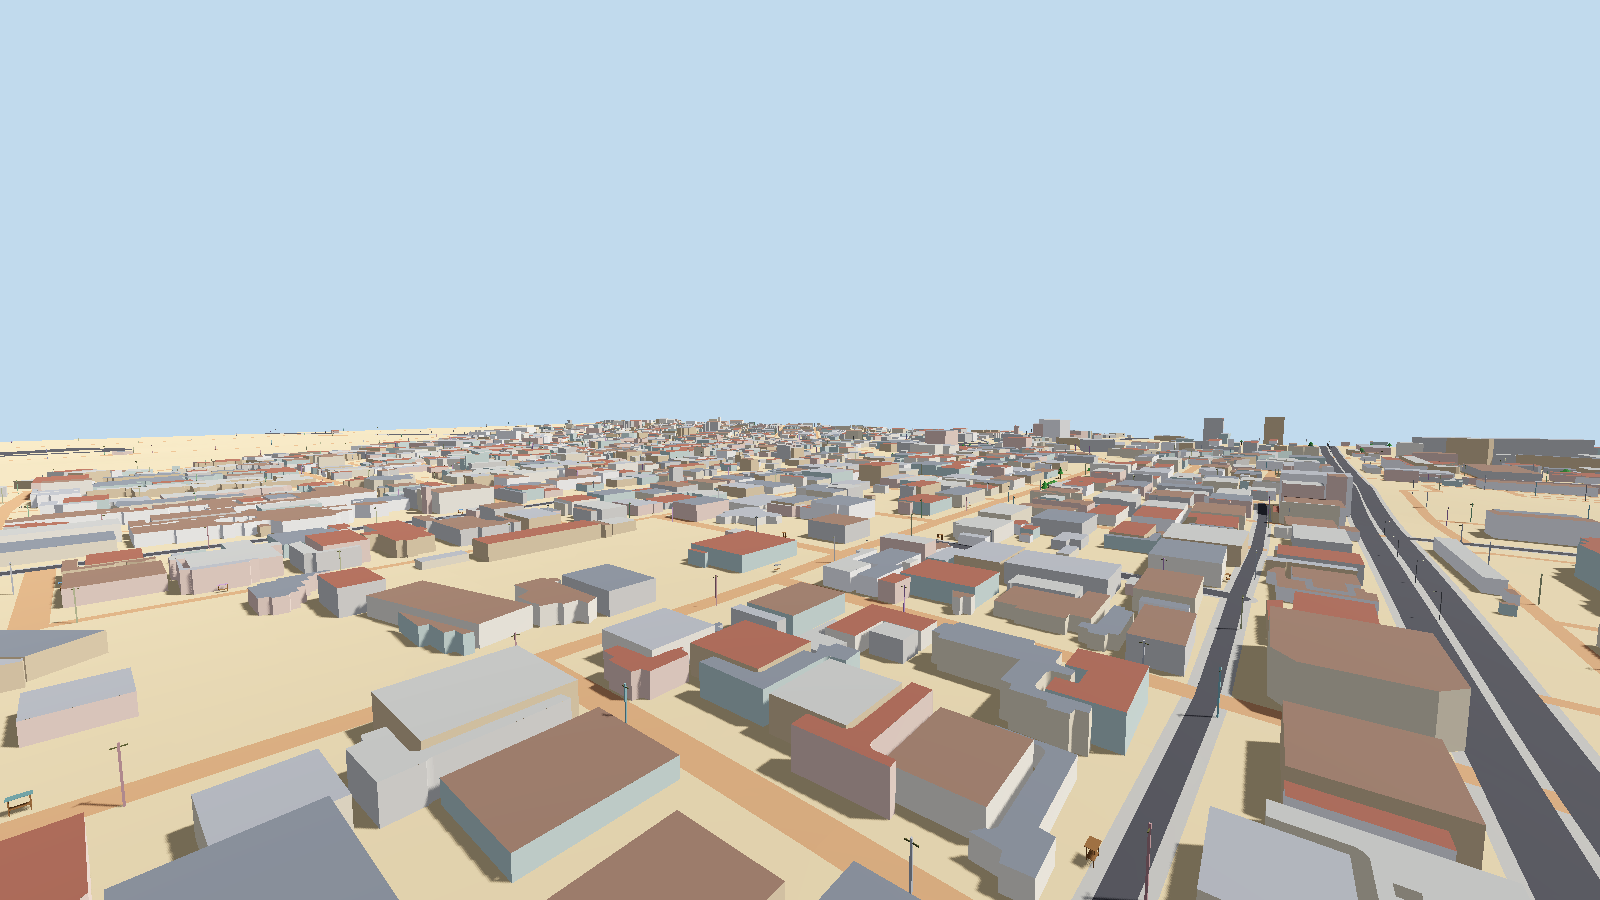
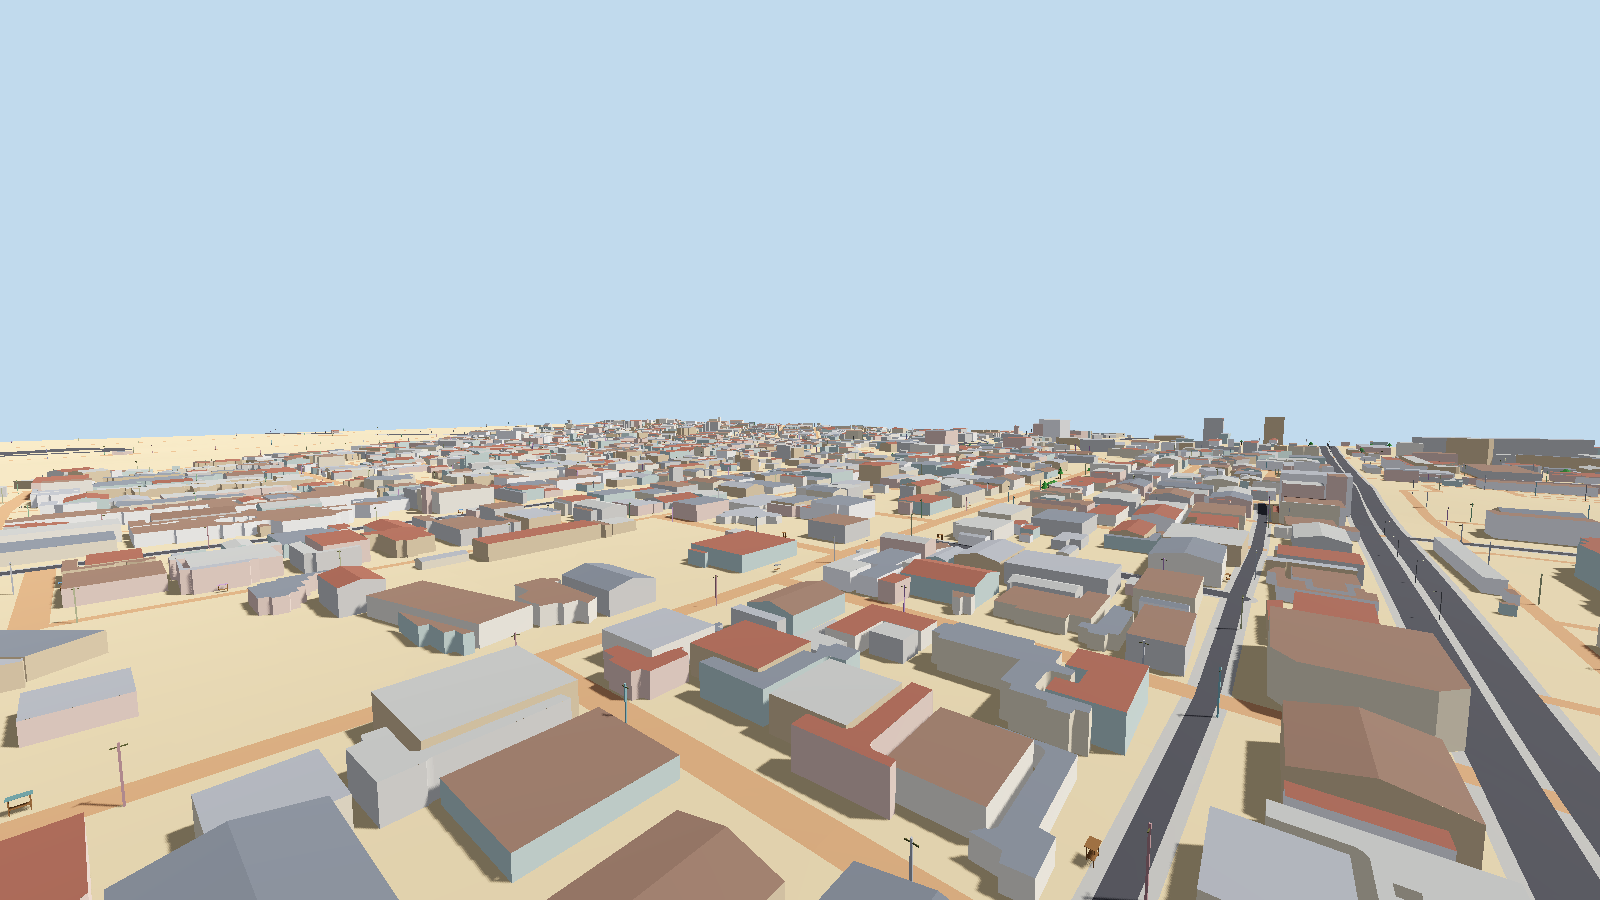
ayigba 0.6 : toits a deux pentes (choix de style) sur les petits batiments rectangulaires
- MeshBuilder.add_gable_prism : le toit epouse exactement l'emprise, murs et pignons suivent le toit
- 60 % des batiments eligibles (graine), propriete toit = deux_pentes, ligne genere au journal, reglage [toits]
- 1936 toits a Cadjehoun, 3821 a Ouidah ; budget par zone respecte
- 225 tests automatiques ; Godot sans perte ni trou, bots pietons et voiture sans defaut

diff --git a/tests/test_toits.py b/tests/test_toits.py
@@ -1,0 +1,127 @@
+"""Toits à deux pentes (MeshBuilder.add_gable_prism) sur des polygones synthétiques, sans réseau."""
+from __future__ import annotations
+
+import math
+
+import numpy as np
+import pytest
+from shapely import affinity
+from shapely.geometry import Polygon, box
+
+from ayigba.mesh import MeshBuilder
+
+Z0, Z1 = 2.0, 5.0
+MUR, TOIT = (0.8, 0.8, 0.8), (0.6, 0.2, 0.1)
+
+
+def _prisme(poly, **kw):
+    mb = MeshBuilder("test")
+    r = mb.add_gable_prism(poly, Z0, Z1, MUR, TOIT, **kw)
+    return r, mb.triangles
+
+
+def _normales(tris):
+    n = np.cross(tris[:, 1] - tris[:, 0], tris[:, 2] - tris[:, 0])
+    return n, np.linalg.norm(n, axis=1)
+
+
+def _toit_et_murs(tris):
+    n, ln = _normales(tris)
+    nz = n[:, 2] / ln
+    return tris[nz > 0.3], tris[np.abs(nz) < 1e-6]
+
+
+def rect(w=10.0, h=6.0):
+    return box(-w / 2, -h / 2, w / 2, h / 2)
+
+
+def test_rectangle_altitudes_et_emprise():
+    p = rect()
+    r, t = _prisme(p)
+    assert r is not None and r > 0
+    assert r == pytest.approx(math.tan(math.radians(14.0)) * 3.0, abs=1e-6)
+    assert len(t) > 0
+    assert t[:, :, 2].max() == pytest.approx(Z1 + r, abs=1e-6)
+    assert t[:, :, 2].min() == pytest.approx(Z0, abs=1e-6)
+    _, ln = _normales(t)
+    assert (ln > 1e-9).all(), "triangle dégénéré"
+    emprise = p.buffer(1e-6)
+    assert all(emprise.contains(__import__("shapely").geometry.Point(x, y)) for x, y in t[:, :, :2].reshape(-1, 2))
+
+
+def test_carre_refuse():
+    r, t = _prisme(rect(6.0, 6.0))
+    assert r is None and len(t) == 0
+
+
+def test_formes_refusees():
+    avec_trou = Polygon(rect(20, 10).exterior.coords, [rect(4, 3).exterior.coords])
+    forme_l = Polygon([(0, 0), (12, 0), (12, 4), (4, 4), (4, 12), (0, 12)])
+    minuscule = box(0, 0, 1.5, 2.5)
+    for p in (avec_trou, forme_l, minuscule):
+        r, t = _prisme(p)
+        assert r is None and len(t) == 0
+
+
+def test_rectangle_tourne():
+    p = affinity.rotate(rect(), 30, origin=(0, 0))
+    r, t = _prisme(p)
+    assert r is not None and r > 0
+    assert t[:, :, 2].max() == pytest.approx(Z1 + r, abs=1e-6)
+    from shapely.geometry import Point
+    emprise = p.buffer(1e-6)
+    assert all(emprise.contains(Point(x, y)) for x, y in t[:, :, :2].reshape(-1, 2))
+
+
+@pytest.mark.parametrize("angle", [0, 30])
+def test_toit_etanche(angle):
+    p = affinity.rotate(rect(), angle, origin=(0, 0))
+    _, t = _prisme(p)
+    toit, _ = _toit_et_murs(t)
+    a = toit[:, :, :2]
+    aire = 0.5 * np.abs((a[:, 1, 0] - a[:, 0, 0]) * (a[:, 2, 1] - a[:, 0, 1]) - (a[:, 2, 0] - a[:, 0, 0]) * (a[:, 1, 1] - a[:, 0, 1]))
+    assert aire.sum() == pytest.approx(p.area, abs=1e-6)
+
+
+@pytest.mark.parametrize("angle", [0, 30])
+def test_murs_couvrent_chaque_arete(angle):
+    p = affinity.rotate(rect(), angle, origin=(0, 0))
+    _, t = _prisme(p)
+    _, murs = _toit_et_murs(t)
+    pts = np.asarray(p.exterior.coords)[:, :2]
+    for a, b in zip(pts[:-1], pts[1:]):
+        ab = b - a
+        L2 = float(ab @ ab)
+        trouve = False
+        for tri in murs:
+            bas = tri[np.isclose(tri[:, 2], Z0, atol=1e-9)][:, :2]
+            if len(bas) < 2:
+                continue
+            ok = True
+            for q in bas:
+                s = float((q - a) @ ab) / L2
+                dist = np.linalg.norm(a + s * ab - q)
+                if dist > 1e-6 or s < -1e-6 or s > 1 + 1e-6:
+                    ok = False
+            if ok:
+                trouve = True
+                break
+        assert trouve, f"arête sans mur : {a} -> {b}"
+
+
+def test_orientation_des_normales():
+    p = rect()
+    _, t = _prisme(p)
+    n, ln = _normales(t)
+    nz = n[:, 2] / ln
+    toit = nz > 0.3
+    assert toit.any() and (nz[toit] > 0).all()
+    centre = np.array([0.0, 0.0])
+    nb_murs = 0
+    for tri, nn in zip(t[np.abs(nz) < 1e-6], n[np.abs(nz) < 1e-6]):
+        nb_murs += 1
+        c = tri[:, :2].mean(axis=0)
+        assert float(nn[:2] @ (c - centre)) > 0, "mur tourné vers l'intérieur"
+    assert nb_murs > 0
+    # aucun triangle ne regarde vers le bas (pas de plancher)
+    assert (nz > -1e-6).all()

diff --git a/src/ayigba/mesh.py b/src/ayigba/mesh.py
@@ -84,6 +84,68 @@ class MeshBuilder:
         self.add_walls(poly, z0, z1, wall_color)
         self.add_flat(poly, z1, top_color)
 
+    def add_gable_prism(self, poly: Polygon, z0: float, z1: float, wall_color, roof_color, pitch_deg: float = 14.0,
+                        min_rectangularity: float = 0.90, min_aspect: float = 1.2, max_rise: float = 1.8) -> float | None:
+        """Bâtiment à toit à deux pentes. Retourne la hauteur du faîte au-dessus de z1, ou None si la forme ne s'y prête pas
+        (rien n'est alors ajouté : l'appelant fait un toit plat).
+
+        Le toit épouse exactement l'emprise (aucun débord sur la rue) : le polygone est coupé par la ligne de faîte, chaque
+        moitié est triangulée à plat puis relevée selon la hauteur, et les murs suivent le toit (pignons compris).
+        Forme acceptée : sans trou, presque rectangulaire, plus longue que large (le faîte suit la longueur).
+        """
+        if poly.is_empty or len(poly.interiors) or poly.area < 4.0:
+            return None
+        rect = poly.minimum_rotated_rectangle
+        if rect.is_empty or rect.geom_type != "Polygon" or poly.area / rect.area < min_rectangularity:
+            return None
+        c = np.asarray(rect.exterior.coords)[:4]
+        e1, e2 = c[1] - c[0], c[2] - c[1]
+        l1, l2 = float(np.hypot(*e1)), float(np.hypot(*e2))
+        long_, short = max(l1, l2), min(l1, l2)
+        if short < 2.5 or long_ / short < min_aspect:
+            return None
+        u = (e1 if l1 >= l2 else e2) / long_          # direction du faîte
+        n = np.array([-u[1], u[0]])                    # normale au faîte
+        center = np.asarray(rect.centroid.coords)[0]
+        half = short / 2.0
+        rise = min(np.tan(np.radians(pitch_deg)) * half, max_rise)
+
+        def perp(p):
+            return (np.asarray(p)[..., :2] - center) @ n
+
+        def top_at(p):
+            return z1 + rise * np.clip(1.0 - np.abs(perp(p)) / half, 0.0, 1.0)
+
+        from shapely.geometry import LineString
+        from shapely.ops import split
+        ridge = LineString([tuple(center - u * (long_ + 5.0)), tuple(center + u * (long_ + 5.0))])
+        halves = [g for g in split(poly, ridge).geoms if g.geom_type == "Polygon" and g.area > 1e-6]
+        if len(halves) != 2:
+            return None
+        # murs : chaque arête du contour est coupée là où elle traverse le faîte, le haut suit la hauteur du toit
+        pts = np.asarray(orient(poly, 1.0).exterior.coords)[:, :2]
+        quads = []
+        for a, b in zip(pts[:-1], pts[1:]):
+            if np.linalg.norm(b - a) < 1e-6:
+                continue
+            pa, pb = float(perp(a)), float(perp(b))
+            segs = [(a, b)]
+            if pa * pb < 0:
+                m = a + (b - a) * (pa / (pa - pb))
+                segs = [(a, m), (m, b)]
+            for p, q in segs:
+                p0, q0 = np.array([p[0], p[1], z0]), np.array([q[0], q[1], z0])
+                p1, q1 = np.array([p[0], p[1], float(top_at(p))]), np.array([q[0], q[1], float(top_at(q))])
+                quads.append(np.stack([p0, q0, q1]))
+                quads.append(np.stack([p0, q1, p1]))
+        self._add(np.stack(quads), wall_color)
+        for h in halves:
+            t2 = triangulate(h)
+            if len(t2):
+                z = top_at(t2.reshape(-1, 2)).reshape(len(t2), 3, 1)
+                self._add(np.concatenate([t2, z], axis=2), roof_color)
+        return float(rise)
+
     @property
     def triangles(self) -> np.ndarray:
         return np.concatenate(self._tris) if self._tris else np.zeros((0, 3, 3))

diff --git a/src/ayigba/stages/generate.py b/src/ayigba/stages/generate.py
@@ -152,6 +152,8 @@ def run(ctx) -> dict:
     mesure = batiments25d.Hauteurs(bat25) if bat25 is not None else None
     to_data = vers_donnees(frame, bat25["epsg"]) if bat25 is not None else None
     measured = 0
+    pitched = 0
+    pitched_share = float(ctx.config.option("toits", "part_deux_pentes", 0.6)) if bool(ctx.config.option("toits", "actif", True)) else 0.0
     bati = MeshBuilder("batiments")
     estimated = 0
     final_buildings = []
@@ -190,10 +192,23 @@ def run(ctx) -> dict:
             final_buildings.append((geom, {**props, "hauteur": height, "hauteur_source": source_h, "base": round(low - 0.3, 2), "sommet": round(top, 2)}))
             continue
         top = high + height
+        # toit à deux pentes : choix de style (les données ne disent pas la forme des toits), seulement pour les petits bâtiments
+        # presque rectangulaires ; tirage lié à la graine, donc reproductible
+        gable = pitched_share > 0.0 and height <= 9.0 and 25.0 <= geom.area <= 500.0 and rng_for(seed, props["id"] + "/toit").random() < pitched_share
+        ridge = None
         for part in _polygons(geom):
-            bati.add_prism(part, low - 0.3, top, wall, roof)
-        final_buildings.append((geom, {**props, "hauteur": height, "hauteur_source": source_h, "base": round(low - 0.3, 2), "sommet": round(top, 2)}))
-    finish(bati, True, "volumes des bâtiments, toits plats, posés sur le relief")
+            r = bati.add_gable_prism(part, low - 0.3, top, wall, roof) if gable else None
+            if r is None:
+                bati.add_prism(part, low - 0.3, top, wall, roof)
+            else:
+                ridge = r
+        if ridge is not None:
+            pitched += 1
+        final_buildings.append((geom, {**props, "hauteur": height, "hauteur_source": source_h, "base": round(low - 0.3, 2), "sommet": round(top, 2),
+                                       **({"toit": "deux_pentes", "faitage_m": round(ridge, 2)} if ridge is not None else {})}))
+    finish(bati, True, "volumes des bâtiments (toits plats ou à deux pentes), posés sur le relief")
+    if pitched:
+        ctx.journal.record("genere", "batiments", f"toit à deux pentes ajouté à {pitched} bâtiment(s) presque rectangulaires (choix de style tiré selon la graine, part {pitched_share:.0%}) : la forme réelle des toits n'est pas dans les données")
     write_features(out / "buildings.geojson", final_buildings)
     if measured:
         ctx.journal.record("info", "batiments", f"hauteur mesurée par Google Open Buildings 2.5D pour {measured} bâtiment(s) (médiane des pixels sous l'emprise)")
@@ -223,5 +238,5 @@ def run(ctx) -> dict:
     return {
         "triangles": sum(layer["triangles"] for layer in layers),
         "couches": {layer["nom"]: layer["triangles"] for layer in layers},
-        "batiments": len(buildings), "hauteurs_estimees": estimated, "hauteurs_mesurees_25d": measured, "decors": len(items), "altitudes_m": relief,
+        "batiments": len(buildings), "toits_deux_pentes": pitched, "hauteurs_estimees": estimated, "hauteurs_mesurees_25d": measured, "decors": len(items), "altitudes_m": relief,
     }

diff --git a/tests/test_pipeline_synthetique.py b/tests/test_pipeline_synthetique.py
@@ -256,3 +256,12 @@ def test_reprise_ne_refait_rien(tmp_path):
     lancer(d, echo=lambda m, *_: messages.append(str(m)))
     assert messages
     assert all("déjà fait" in m for m in messages)
+
+
+def test_toits_desactives_donne_zero_toit_a_deux_pentes(tmp_path):
+    dossier = ecrire_projet(tmp_path / "sans-toits", ville_de_base())
+    cfg = dossier / "config.toml"
+    cfg.write_text(cfg.read_text(encoding="utf-8") + "\n[toits]\nactif = false\n", encoding="utf-8")
+    resultats = lancer(dossier)
+    assert "toits_deux_pentes" in resultats["generation"]
+    assert resultats["generation"]["toits_deux_pentes"] == 0

diff --git a/docs/CHANTIER.md b/docs/CHANTIER.md
@@ -1,6 +1,6 @@
 # Chantier ayigba : plan et avancement
 
-Écrit pour : Olympe, et tout agent qui reprend le travail. Mis à jour le 17/11/2026 (version 0.5).
+Écrit pour : Olympe, et tout agent qui reprend le travail. Mis à jour le 17/11/2026 (version 0.6).
 
 Règles de travail : ne rien pousser sans demande d'Olympe ; pas de co-auteur dans les commits ; ne jamais écrire le nom d'une marque ou d'une œuvre protégée ; dire ce qui n'est pas vérifié. Organisation : l'agent principal fait les tâches difficiles (conception, géométrie, contrôles, moteur) ; les tâches bien délimitées (tests, modules simples à contrat écrit) sont déléguées à des sous-agents, puis relues.
 
@@ -28,7 +28,7 @@ Règles de travail : ne rien pousser sans demande d'Olympe ; pas de co-auteur da
 |---|---|---|---|
 | 1 | Squelette, configuration, journal, reprise | **fait** | |
 | 2 | Collecte et nettoyage | **fait : OpenStreetMap, relief Copernicus (plusieurs tuiles), Google Open Buildings 2.5D** | reste : Microsoft Building Footprints, images de rue |
-| 3 | Génération de base | **fait, version simple** | relief (Copernicus 30 m), sol conforme drapé sur le relief, routes, trottoirs à plat, bâtiments posés sur le relief, auvents, eau à son niveau propre, décors ; densité de zems et sens de circulation exportés comme données ; reste : relief plus fin que 30 m, toits en pente, bordures de trottoir surélevées, carrefours dessinés, passages piétons peints, façades |
+| 3 | Génération de base | **fait, version simple** | relief (Copernicus 30 m), sol conforme drapé sur le relief, routes, trottoirs à plat, bâtiments posés sur le relief, auvents, eau à son niveau propre, décors ; densité de zems et sens de circulation exportés comme données ; toits à deux pentes pour une partie des petits bâtiments rectangulaires (version 0.6) ; reste : relief plus fin que 30 m, bordures de trottoir surélevées, carrefours dessinés, passages piétons peints, façades |
 | 4 | Tests par bots, correction, rapport | **fait** | contrôles de géométrie, accessibilité exacte, bots dans Godot sur toutes les routes au gabarit piéton et au gabarit voiture (1,8 m de large), comparaison avant/après et retour en arrière ; reste : navmesh, bots hors des routes, vrai véhicule à roues |
 | 5 | Génération de secours | **fait, première version** | routes isolées reliées ou retirées, îlots vides remplis, cours fermées comblées ; tout est marqué `genere` |
 | 6 | Export Godot et vérification dans un vrai Godot | **fait** | adaptateur `adapters/godot/ayigba_carte.gd` (zones à la demande, collisions, niveaux de détail), vérifié par les bots |
@@ -79,7 +79,8 @@ Même entrée et même graine donnent les mêmes fichiers (test automatique). Au
 - **Contrôle des détections (`ayigba controler-detections`, `src/ayigba/controle.py`, ajouté le 17/11/2026).** L'outil mesure des INDICES DE SUSPICION, pas la vérité terrain : aucune vérité terrain n'est disponible, le score (somme de poids dans `controle.POIDS`) est un outil de tri et jamais une probabilité d'erreur. Les seuils de surface, d'allongement, de hauteur et de densité sont ceux demandés ; ceux de rectangularité (0,5) et de présence moyenne (0,55) et tous les poids sont des choix de l'auteur, réglés sur la distribution observée pour que l'indice discrimine, pas sur des erreurs réelles. Limites : les indices viennent des mêmes données 2.5D que la détection (un bâtiment « sûr » est cohérent avec ses propres données, pas confirmé par une source indépendante) ; l'étape secours retire déjà des détections ce qui touche l'eau et les chaussées, donc `proche_eau` et `zone_tres_dense` ne se déclenchent presque jamais (0 sur les deux projets) ; « proche » veut dire à 1 m ou moins. Résultats du 17/11/2026 : Cadjèhoun, 3 108 détections, 1 389 sans indice, 165 de score 4 ou plus ; Ouidah, 6 816 détections, 3 773 sans indice, 317 de score 4 ou plus. Les planches (échantillon stratifié, graine fixe) montrent que les suspects sont surtout de très petites taches coincées entre des bâtiments, de faible hauteur ; elles ne prouvent rien sur la précision réelle. Exclusion : `--exclure-score X` écrit une liste d'identifiants dans `[batiments25d] exclure` de `config.toml` seulement à la demande ; l'étape secours les retire à la génération suivante et journalise le nombre exclu (`logs/decisions.jsonl`). Les identifiants `g25d/x_y_k` peuvent changer si la détection change : un identifiant sans correspondance est ignoré (compté dans le journal).
 - Les hauteurs « google_25d » sont la médiane des pixels de 2 m sous l'emprise : un bâtiment à étages en retrait est rendu comme un seul bloc.
 - Les rives : le sol redescend vers chaque plan d'eau sur 40 m, jusqu'à 15 cm au-dessus de l'eau. C'est une règle, pas une mesure.
-- Toits en pente, façades, carrefours dessinés, passages piétons peints, ponts (rendus comme des remblais), plafond des passages couverts (ouverts à ciel ouvert).
+- Toits : seuls les petits bâtiments (25 à 500 m2, 9 m de haut au plus) presque rectangulaires (au moins 90 % de leur rectangle englobant), plus longs que larges, sans cour intérieure, reçoivent un toit à deux pentes (14 degrés, faîte de 1,8 m au plus), pour 60 % d'entre eux tirés selon la graine. C'est un CHOIX DE STYLE : les données ne disent pas la forme des toits, et la propriété `toit = deux_pentes` est inscrite dans buildings.geojson avec une ligne `genere` au journal. Les autres toits restent plats (toits à quatre pentes, en L, terrasses : non faits). De loin, les boîtes restent plates. Réglage : `[toits] actif`, `part_deux_pentes`. Résultat : 1 936 toits à Cadjèhoun, 3 821 à Ouidah.
+- Façades, carrefours dessinés, passages piétons peints, ponts (rendus comme des remblais), plafond des passages couverts (ouverts à ciel ouvert).
 - Sources autres qu'OpenStreetMap. Presque toutes les hauteurs de bâtiments sont estimées par une règle simple.
 - Les décors n'ont pas de collision. Leur placement suit des règles simples, pas une observation du terrain.
 - Navmesh, bots qui quittent les routes, vrai véhicule à roues (le bot « voiture » est une capsule de 1,8 m de large).

diff --git a/README.md b/README.md
@@ -23,7 +23,7 @@ La cohérence passe avant la fidélité à 100 %. Une carte sans trou, sans mur 
 
 L'outil est indépendant de tout jeu : il ne contient ni missions, ni météo, ni scénario. Il produit une carte et ses données, c'est tout.
 
-## État actuel (version 0.5, 17/11/2026)
+## État actuel (version 0.6, 17/11/2026)
 
 Ce qui marche, vérifié sur deux lieux : Cadjèhoun à Cotonou (7,3 km², 4 302 bâtiments, altitudes de 0.0 à 8.41 m) et Ouidah (8,9 km², 7 985 bâtiments, altitudes de 2.67 à 24.04 m).
 
@@ -44,7 +44,7 @@ Ce qui marche, vérifié sur deux lieux : Cadjèhoun à Cotonou (7,3 km², 4 302
 
 Ce qui n'est pas fait ou pas vérifié :
 
-- relief plus fin que 30 m, arbres non retirés du relief, toits en pente, façades, bordures de trottoir, carrefours dessinés, ponts (rendus comme des remblais) ;
+- relief plus fin que 30 m, arbres non retirés du relief, toits autres qu'à deux pentes (les petits bâtiments rectangulaires ont un toit à deux pentes par choix de style, réglable dans `[toits]`), façades, bordures de trottoir, carrefours dessinés, ponts (rendus comme des remblais) ;
 - bâtiments détectés par IA non contrôlés sur le terrain (faux positifs ou fusions possibles) : l'outil sait les trier par indices de suspicion, mais leur exactitude réelle n'est pas mesurée ;
 - bots hors des routes, navmesh, vrai véhicule à roues ;
 - adaptateurs Unity et Unreal : écrits mais jamais testés, faute de moteur disponible ;
